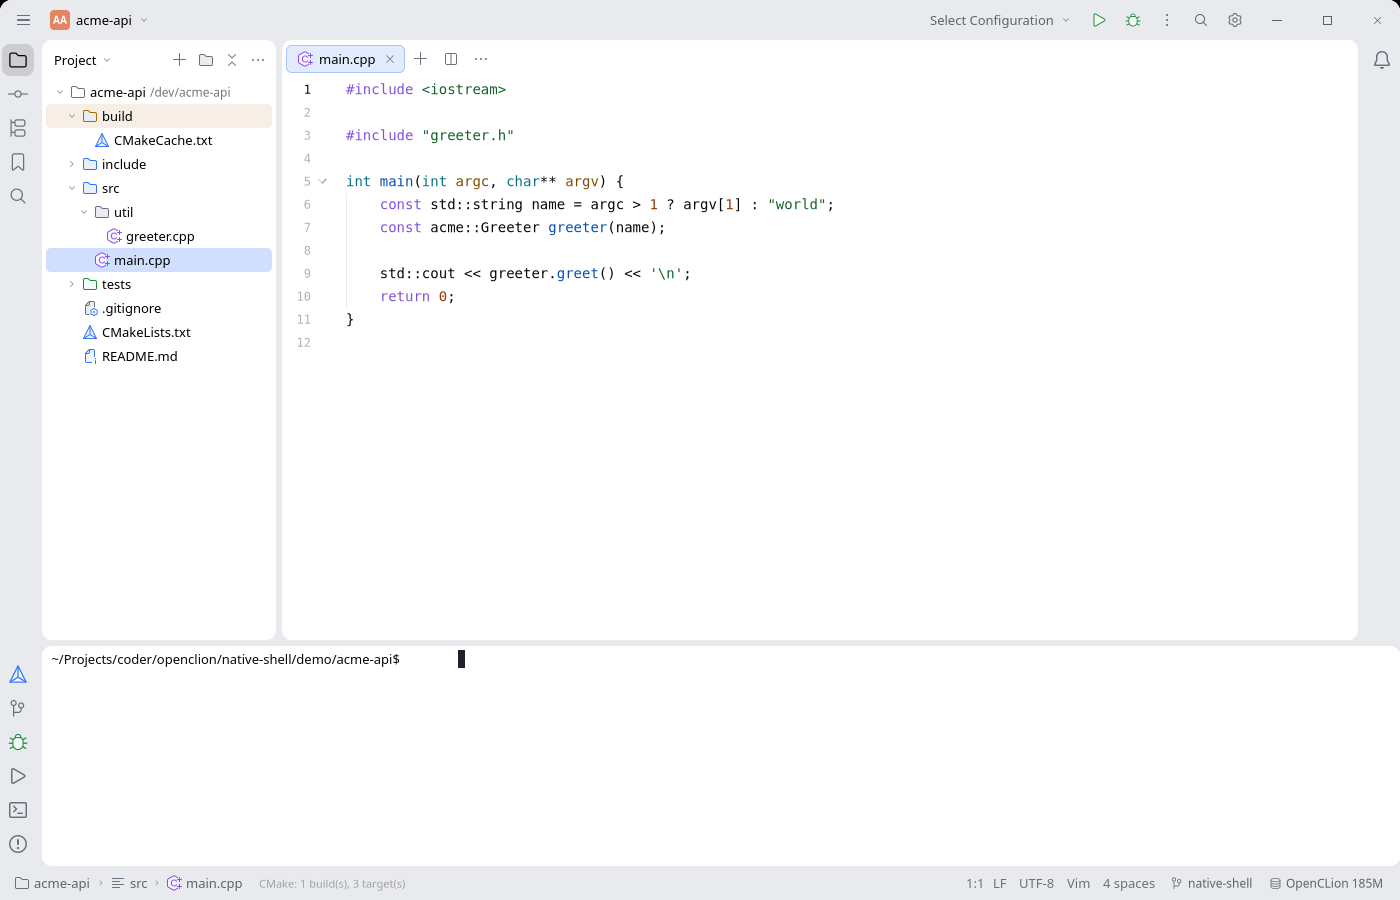
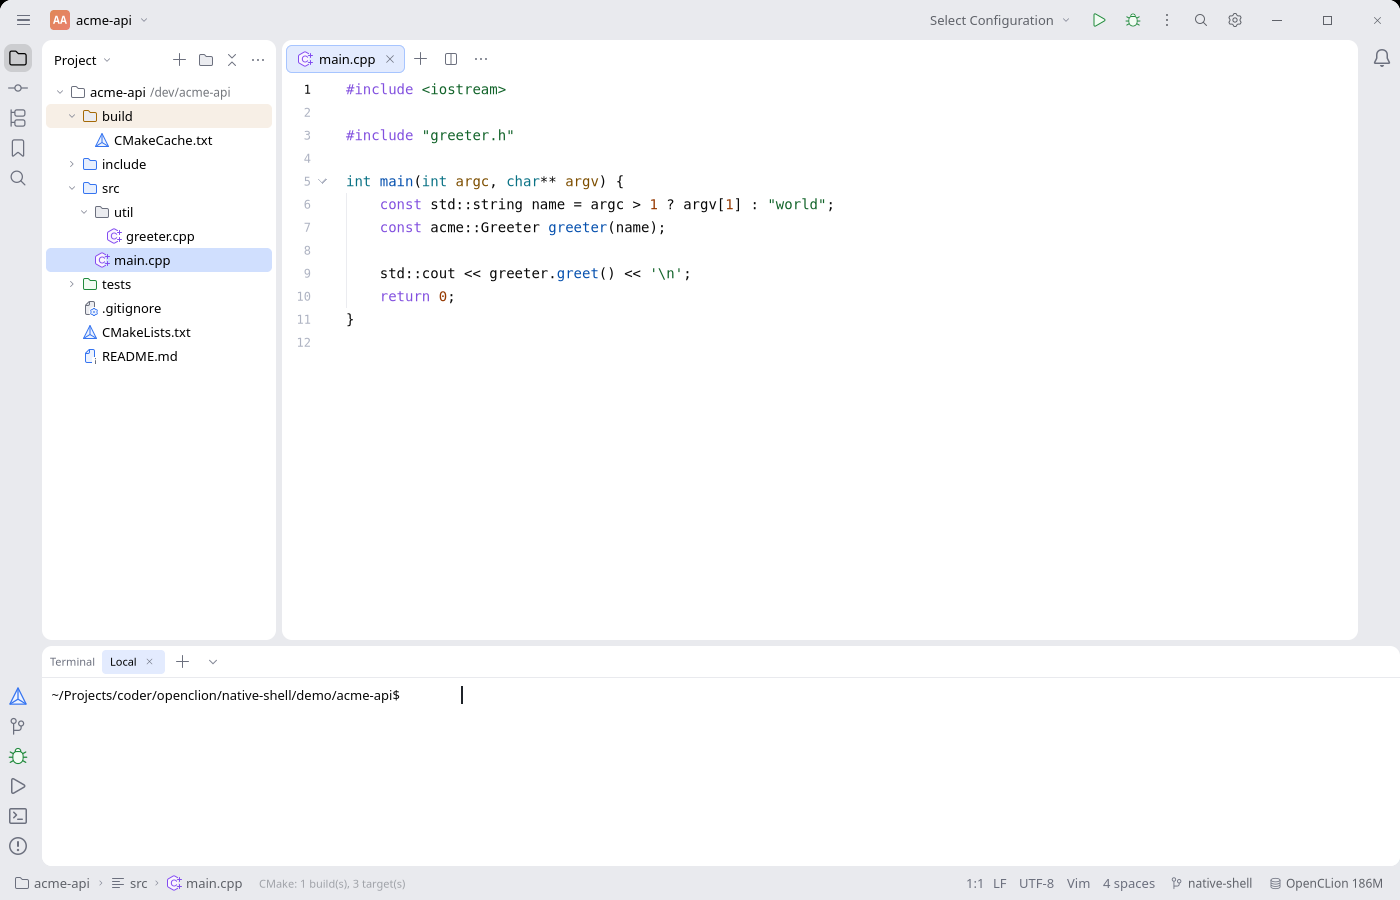
fix(native-shell): terminal tab header, one bottom tool per view, thin bar cursor
The Terminal matches the OpenCLion bottom panel: Terminal label, Local tab with close, new/dropdown actions, then the shell. The bottom dock renders only the selected tool (no Terminal/Problems/Run tab strip); each non-terminal tool has a compact title+close header. The rail buttons shrink to 28pt inside the 36pt stripes and their icons are explicitly centered. A 2px bar cursor replaces the block cursor so it sits immediately after the '$' prompt; the prompt keeps a leading space indent and no trailing space.

diff --git a/native-shell/src/ui/panels.rs b/native-shell/src/ui/panels.rs
@@ -325,7 +325,14 @@ fn bottom_content(state: State, pal: Palette) -> impl IntoElement {
             .child(hierarchy_body(state, pal))
             .into_element(),
         Some(BottomTool::Debug) => debug_body(state, pal).into_element(),
-        Some(BottomTool::Terminal) | None => terminal_body(state, pal).into_element(),
+        Some(BottomTool::Terminal) | None => view()
+            .flex_col()
+            .flex_1()
+            .w_full()
+            .min_h(px(0.0))
+            .child(terminal_header(state, pal))
+            .child(terminal_body(state, pal))
+            .into_element(),
     }
 }
 
@@ -875,6 +882,49 @@ fn tool_button(pal: Palette, markup: &'static str, label: &'static str, on_press
         .child(text_ui(label, 11.0, pal.fg_secondary))
 }
 
+fn terminal_header(state: State, pal: Palette) -> impl IntoElement {
+    view()
+        .h(px(32.0))
+        .flex_none()
+        .w_full()
+        .flex_row()
+        .items_center()
+        .gap(px(6.0))
+        .px(px(8.0))
+        .border_b_1()
+        .border_color(pal.border)
+        .child(text_muted("Terminal", 11.0, pal))
+        .child(
+            view()
+                .h(px(24.0))
+                .flex_row()
+                .items_center()
+                .gap(px(4.0))
+                .px(px(8.0))
+                .rounded(px(4.0))
+                .bg(pal.tab_selected)
+                .child(text_ui("Local", 11.0, pal.fg))
+                .child(
+                    view()
+                        .size(px(16.0))
+                        .items_center()
+                        .justify_center()
+                        .rounded(px(3.0))
+                        .hover(move |s| s.bg(pal.tab_hover))
+                        .on_press(move || state.show_bottom.set(false))
+                        .child(icon(icons::CLOSE, 9.0, pal.fg_muted)),
+                ),
+        )
+        .child(header_action(pal, icons::ADD, move || {
+            crate::terminal::ensure_started(state);
+            state.status.set("The native terminal runs a single local shell".to_owned());
+        }))
+        .child(header_action(pal, icons::CHEVRON_DOWN, move || {
+            state.bottom_tool.set(Some(BottomTool::Terminal));
+        }))
+        .child(view().flex_1())
+}
+
 fn terminal_body(state: State, pal: Palette) -> impl IntoElement {
     effect(move || {
         crate::terminal::ensure_started(state);
@@ -899,7 +949,7 @@ fn terminal_body(state: State, pal: Palette) -> impl IntoElement {
             .component_ref(&state.terminal_ref)
             .flex_1()
             .w_full()
-            .cursor_class("bg-[#1f2329] -ml-[3px]")
+            .cursor_class("bg-[#1f2329] w-[2px]")
             .on_data(move |data: &SharedString| crate::terminal::send(state, data))
             .on_resize(move |event: &nsh_base::TerminalEvent| {
                 if let nsh_base::TerminalEvent::Resize(cols, rows) = event {

diff --git a/native-shell/src/ui/rail.rs b/native-shell/src/ui/rail.rs
@@ -46,7 +46,7 @@ pub fn right_rail(state: State, pal: Palette) -> impl IntoElement {
 
 fn rail_button_base(pal: Palette) -> View {
     view()
-        .size(px(32.0))
+        .size(px(28.0))
         .flex_none()
         .items_center()
         .justify_center()
@@ -81,9 +81,11 @@ fn left_button(state: State, pal: Palette, markup: &'static str, tool: LeftTool,
             }
             crate::settings::save(state);
         })
-        .child(icon(markup, 20.0, pal.fg_muted).text_color(move || {
-            if state.left_tool.get() == tool && state.show_left.get() { pal.fg_strong } else { pal.fg_muted }
-        }))
+        .child(view().w_full().items_center().justify_center().child(icon(markup, 20.0, pal.fg_muted).text_color(
+            move || {
+                if state.left_tool.get() == tool && state.show_left.get() { pal.fg_strong } else { pal.fg_muted }
+            },
+        )))
 }
 
 fn bottom_button(state: State, pal: Palette, markup: &'static str, tool: BottomTool, title: &'static str) -> View {
@@ -115,9 +117,15 @@ fn bottom_button(state: State, pal: Palette, markup: &'static str, tool: BottomT
             }
             crate::settings::save(state);
         })
-        .child(icon(markup, 20.0, pal.fg_muted).text_color(move || {
-            if state.bottom_tool.get() == Some(tool) && state.show_bottom.get() { pal.fg_strong } else { pal.fg_muted }
-        }))
+        .child(view().w_full().items_center().justify_center().child(icon(markup, 20.0, pal.fg_muted).text_color(
+            move || {
+                if state.bottom_tool.get() == Some(tool) && state.show_bottom.get() {
+                    pal.fg_strong
+                } else {
+                    pal.fg_muted
+                }
+            },
+        )))
 }
 
 fn right_button(state: State, pal: Palette, markup: &'static str, tool: RightTool, title: &'static str) -> View {
@@ -142,7 +150,9 @@ fn right_button(state: State, pal: Palette, markup: &'static str, tool: RightToo
             }
             crate::settings::save(state);
         })
-        .child(icon(markup, 20.0, pal.fg_muted).text_color(move || {
-            if state.right_tool.get() == tool && state.show_right.get() { pal.fg_strong } else { pal.fg_muted }
-        }))
+        .child(view().w_full().items_center().justify_center().child(icon(markup, 20.0, pal.fg_muted).text_color(
+            move || {
+                if state.right_tool.get() == tool && state.show_right.get() { pal.fg_strong } else { pal.fg_muted }
+            },
+        )))
 }

diff --git a/native-shell/README.md b/native-shell/README.md
@@ -56,13 +56,13 @@ backend uses.
 | Rename symbol      | `ide-lsp` `textDocument/rename`                | Shift+F6 prefills the word at the caret and applies clangd's WorkspaceEdit to open buffers and disk, then refreshes tree and VCS                                                                 |
 | Code actions       | `ide-lsp` `textDocument/codeAction`            | Alt+Enter lists quick fixes/refactors; the chosen action applies its WorkspaceEdit or runs its command                                                                                           |
 | Type hierarchy     | `ide-lsp` `prepareTypeHierarchy`               | Ctrl+Alt+H lists supertypes/subtypes in a Hierarchy dock; clicking opens the declaration                                                                                                         |
-| Terminal           | `ide-terminal` (portable-pty) + nsh `Terminal` | real login shell, native monospace, 6 px left inset; prompt is ` ~/…$` with no right-side Node/time and no trailing space, so the block cursor sits in the next cell                             |
+| Terminal           | `ide-terminal` (portable-pty) + nsh `Terminal` | header with `Terminal` + `Local ×` tab + new/dropdown actions; 6 px inset, ` ~/…$` prompt, thin 2 px bar cursor in the next cell; no right-side Node/time                                        |
 | Debugging          | `ide-dap` + lldb-dap                           | title-bar bug launches the CMake executable; F9 toggles a breakpoint; Breakpoints list with enable toggles, Condition and Logpoint dialogs; Continue/Step/Stop, frames, expandable locals, Watch |
 | File operations    | `std::fs` + native dialogs                     | + / folder creates; right-click offers New File/Folder, Rename file (F2), Delete, Copy Path and Reveal; tabs and tree follow renames                                                             |
 | Project tree       | `std::fs` walk + nsh views                     | root on top, 12pt indentation per level, clicking the root collapses/expands the whole project                                                                                                   |
 | Title bar          | nsh window controls + native views             | ☰ application menu at the left, custom minimize/maximize/close at the right, project/run widgets in between                                                                                     |
 | Status bar         | `ide-vcs` + `/proc/self/statm`                 | current branch and OpenCLion RSS at the right; the branch button opens the Git dock                                                                                                              |
-| Bottom dock        | native views + `ide-vcs`/`ide-cmake`           | full-width area that shows exactly ONE tool at a time (Git, CMake, Terminal, Problems, Run, Debug…), with its own header and no tab strip for other tools                                        |
+| Bottom dock        | native views + `ide-vcs`/`ide-cmake`           | full-width area showing exactly ONE tool at a time, each with its own header/tab row (Terminal: Local; Git: Log/Console/Worktrees; CMake: actions); no tab strip for other tools                 |
 | File watcher       | `notify` + `notify-debouncer-full`             | external creates/renames/deletes rebuild the tree and refresh git status                                                                                                                         |
 | Settings           | nsh `Storage` + `serde_json`                   | Appearance/Editor/Keymap/Plugins/Build pages; font size, layout and recent projects persist; Keymap lists shortcuts, Plugins the bundled integrations                                            |
 
